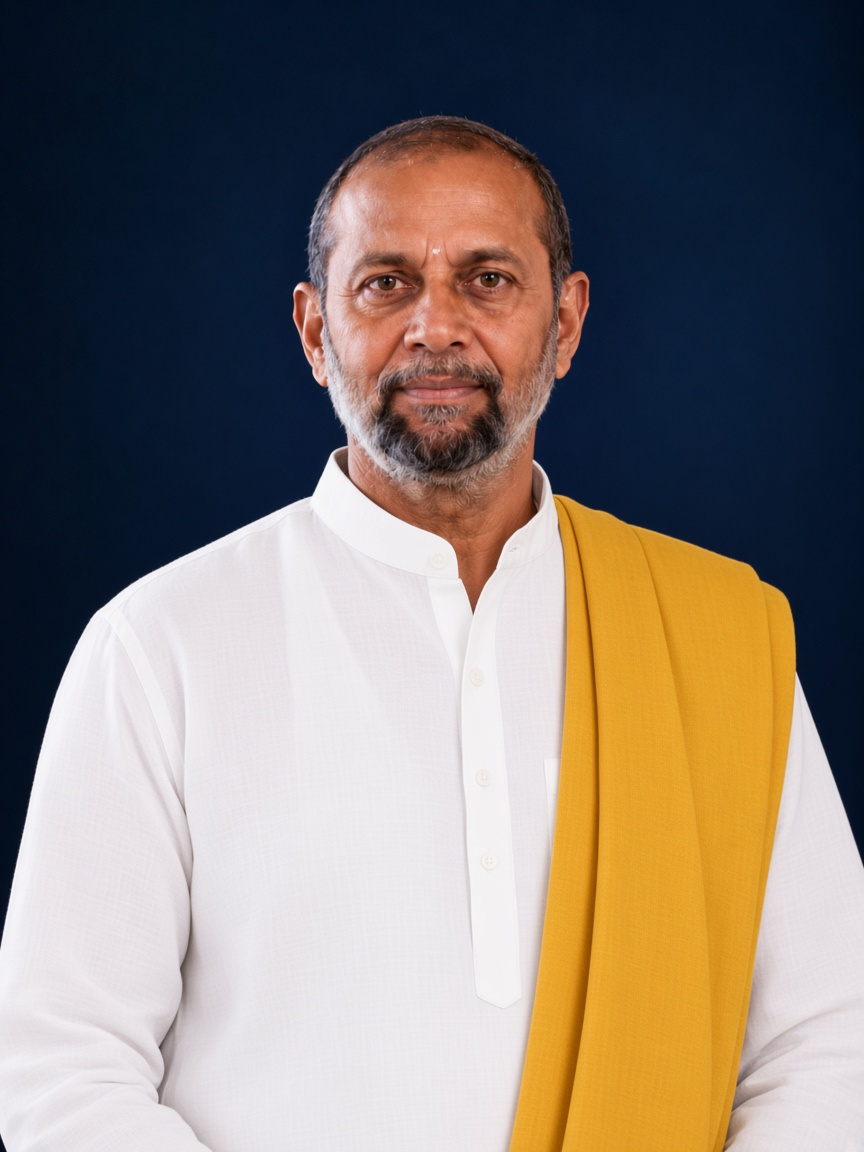
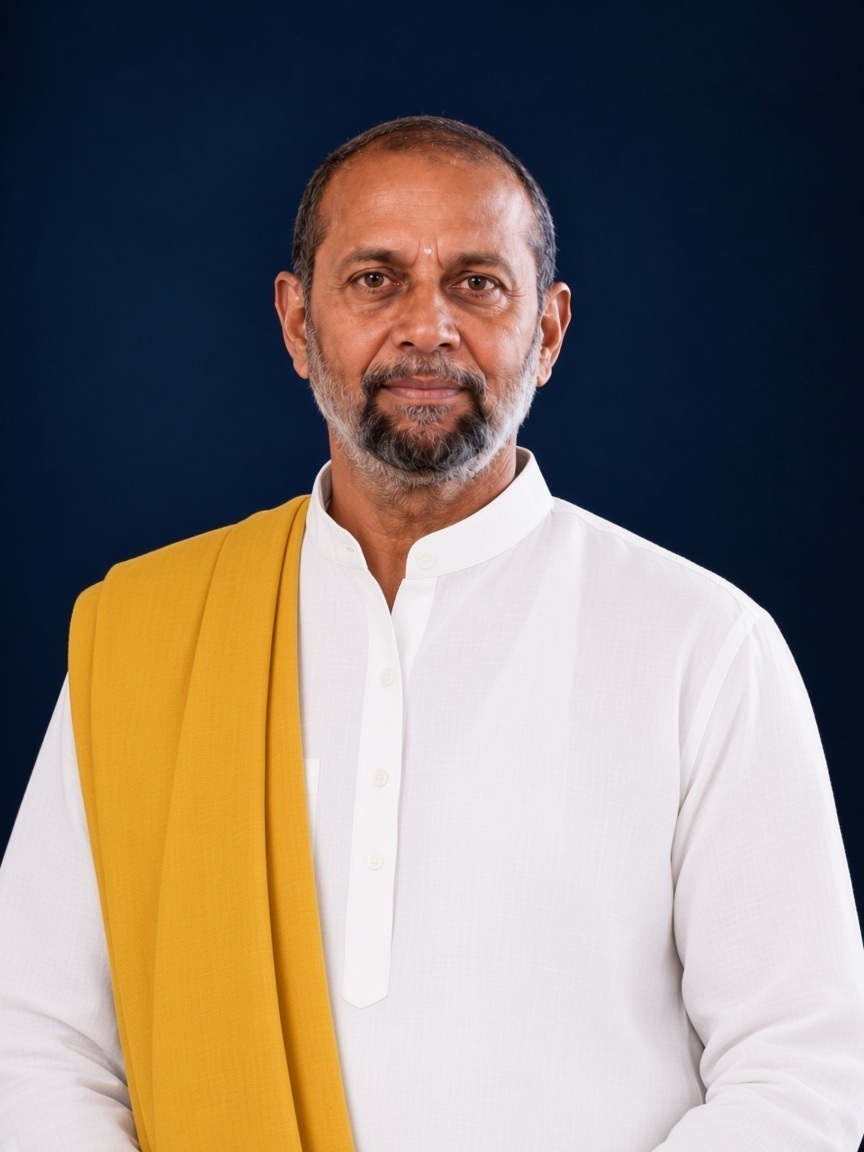
Founder uniforms: left-side yellow thundu, softer natural tones
Mirror portraits so thundu sits on the left; tone down brightness on
founder and secretary uniforms to match Selvin and Sureash.

diff --git a/src/config/images.js b/src/config/images.js
@@ -114,7 +114,7 @@ const catalog = {
   sidebarPost3: [`${V}/sidebar-post-3.jpg`],
 };
 
-const VETHAM_ASSET_VERSION = 'founders-yellow-uniform-v5';
+const VETHAM_ASSET_VERSION = 'founders-yellow-uniform-v7';
 
 export function img(key) {
   const entry = catalog[key];
